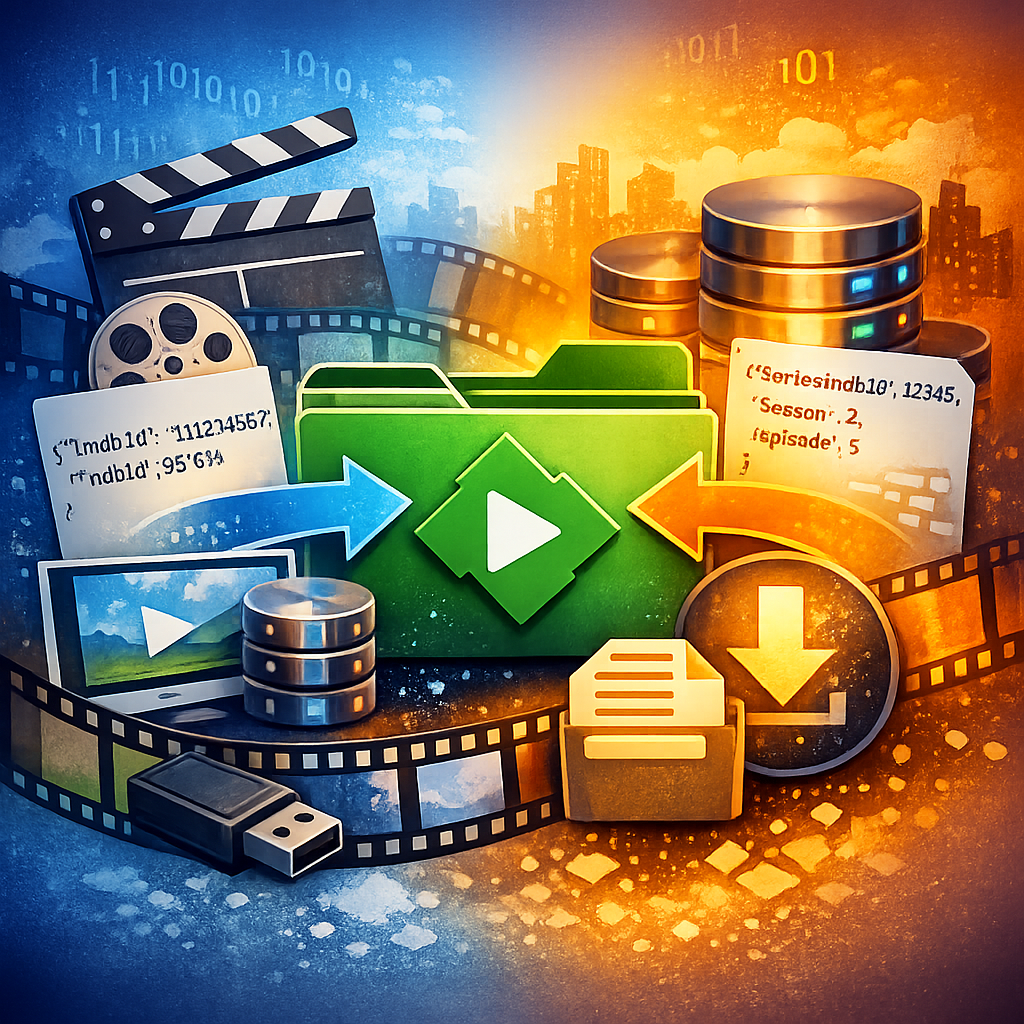
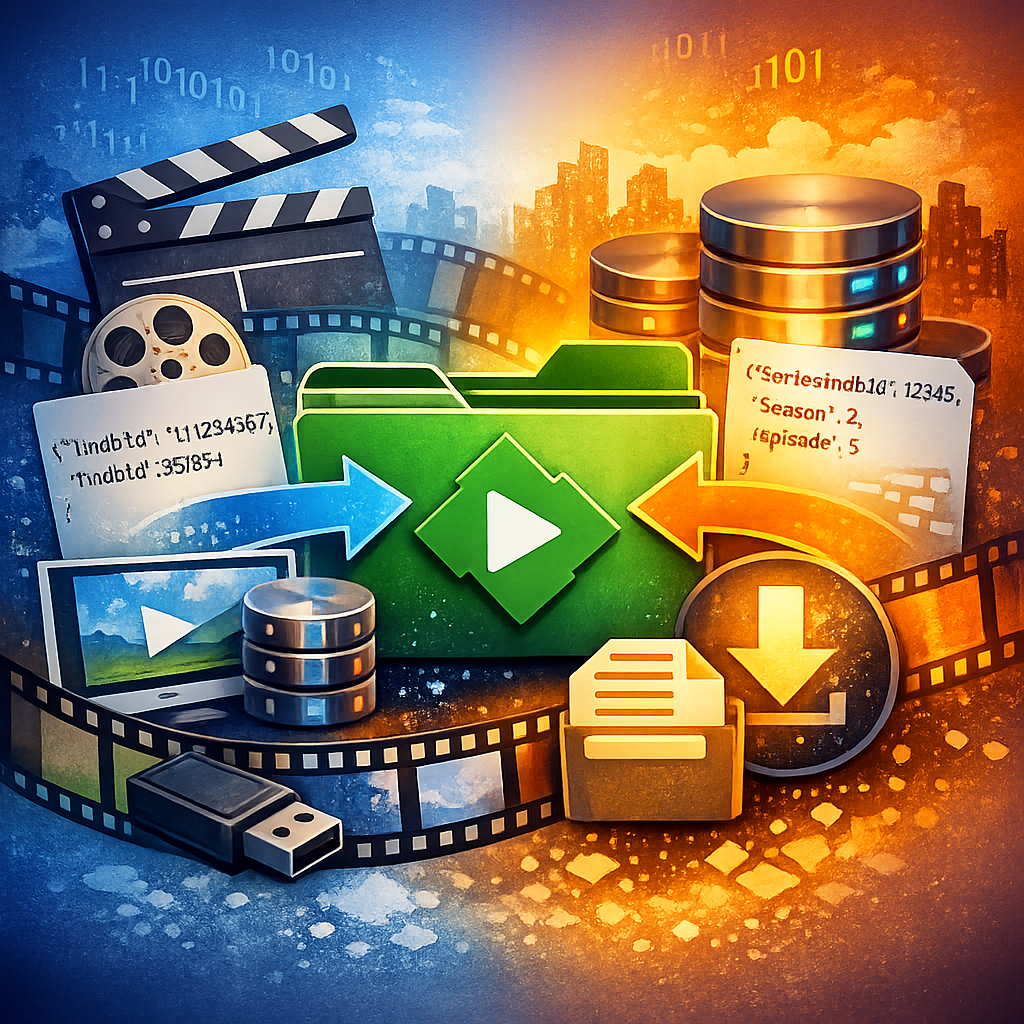
Improve series ID fallback and provider ID prioritization
Added fallback to fetch SeriesTmdbId and SeriesTvdbId by traversing to the Series item if not initially set. Made provider ID prioritization case-insensitive for "Imdb" and "Tmdb". Updated ThumbImage.png.

diff --git a/emby-playlist-manager/PlaylistService.cs b/emby-playlist-manager/PlaylistService.cs
@@ -84,6 +84,34 @@ namespace EmbyPlaylistManager
                             dto.SeriesTvdbId = sTvdbId;
                     }
 
+                    // Fallback: walk up to the Series item directly
+                    if (dto.SeriesTmdbId == null && dto.SeriesTvdbId == null)
+                    {
+                        var seriesIdProp = item.GetType().GetProperty("SeriesId");
+                        if (seriesIdProp?.GetValue(item) is long seriesInternalId && seriesInternalId > 0)
+                        {
+                            var seriesItem = _libraryManager.GetItemList(new InternalItemsQuery(user)
+                            {
+                                IncludeItemTypes = new[] { "Series" },
+                                Limit = 1
+                            }).FirstOrDefault(s => s.InternalId == seriesInternalId)
+                            ?? _libraryManager.GetItemList(new InternalItemsQuery(user)
+                            {
+                                AncestorIds = new[] { seriesInternalId },
+                                IncludeItemTypes = new[] { "Series" },
+                                Limit = 1
+                            }).FirstOrDefault();
+
+                            if (seriesItem?.ProviderIds != null)
+                            {
+                                if (seriesItem.ProviderIds.TryGetValue("Tmdb", out var st) && int.TryParse(st, out var stId))
+                                    dto.SeriesTmdbId = stId;
+                                if (seriesItem.ProviderIds.TryGetValue("Tvdb", out var sv) && int.TryParse(sv, out var svId))
+                                    dto.SeriesTvdbId = svId;
+                            }
+                        }
+                    }
+
                     var seasonProp = item.GetType().GetProperty("ParentIndexNumber");
                     var indexProp = item.GetType().GetProperty("IndexNumber");
                     if (seasonProp != null) dto.Season = (int?)seasonProp.GetValue(item);
@@ -203,7 +231,8 @@ namespace EmbyPlaylistManager
 
                     // Try each provider ID in priority order: Imdb first, Tmdb second, then anything else
                     var prioritized = dto.ProviderIds
-                        .OrderBy(k => k.Key == "Imdb" ? 0 : k.Key == "Tmdb" ? 1 : 2);
+                        .OrderBy(k => k.Key.Equals("Imdb", StringComparison.OrdinalIgnoreCase) ? 0 :
+                                      k.Key.Equals("Tmdb", StringComparison.OrdinalIgnoreCase) ? 1 : 2);
 
                     foreach (var providerId in prioritized)
                     {
